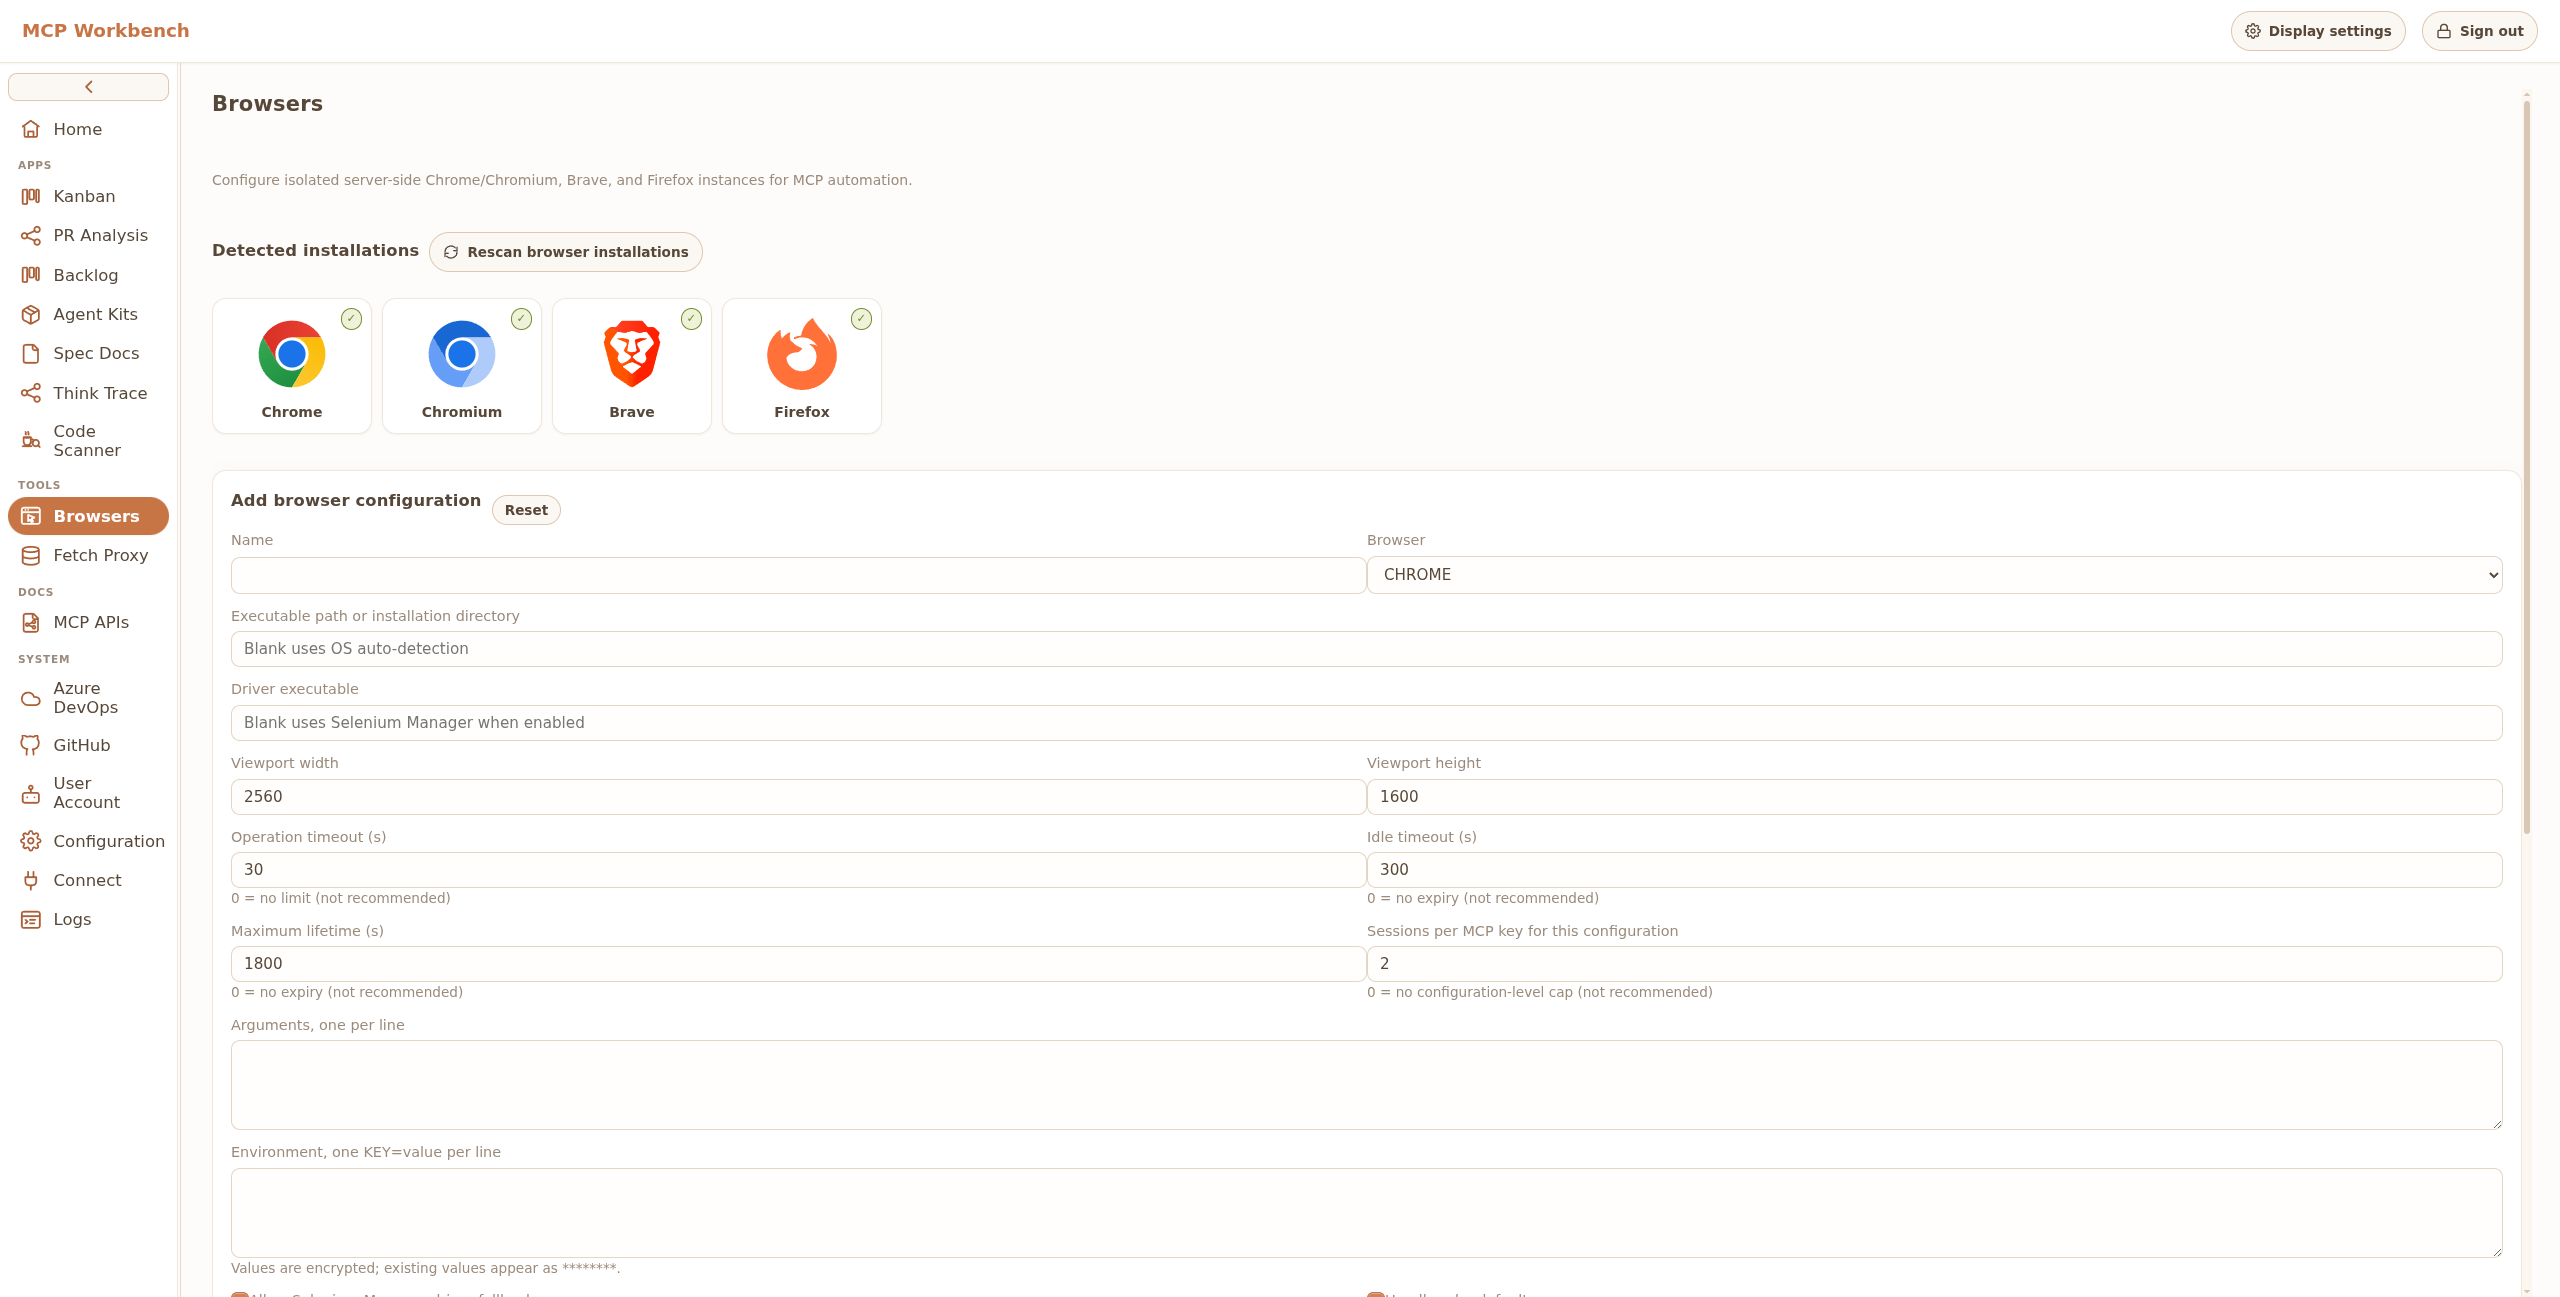
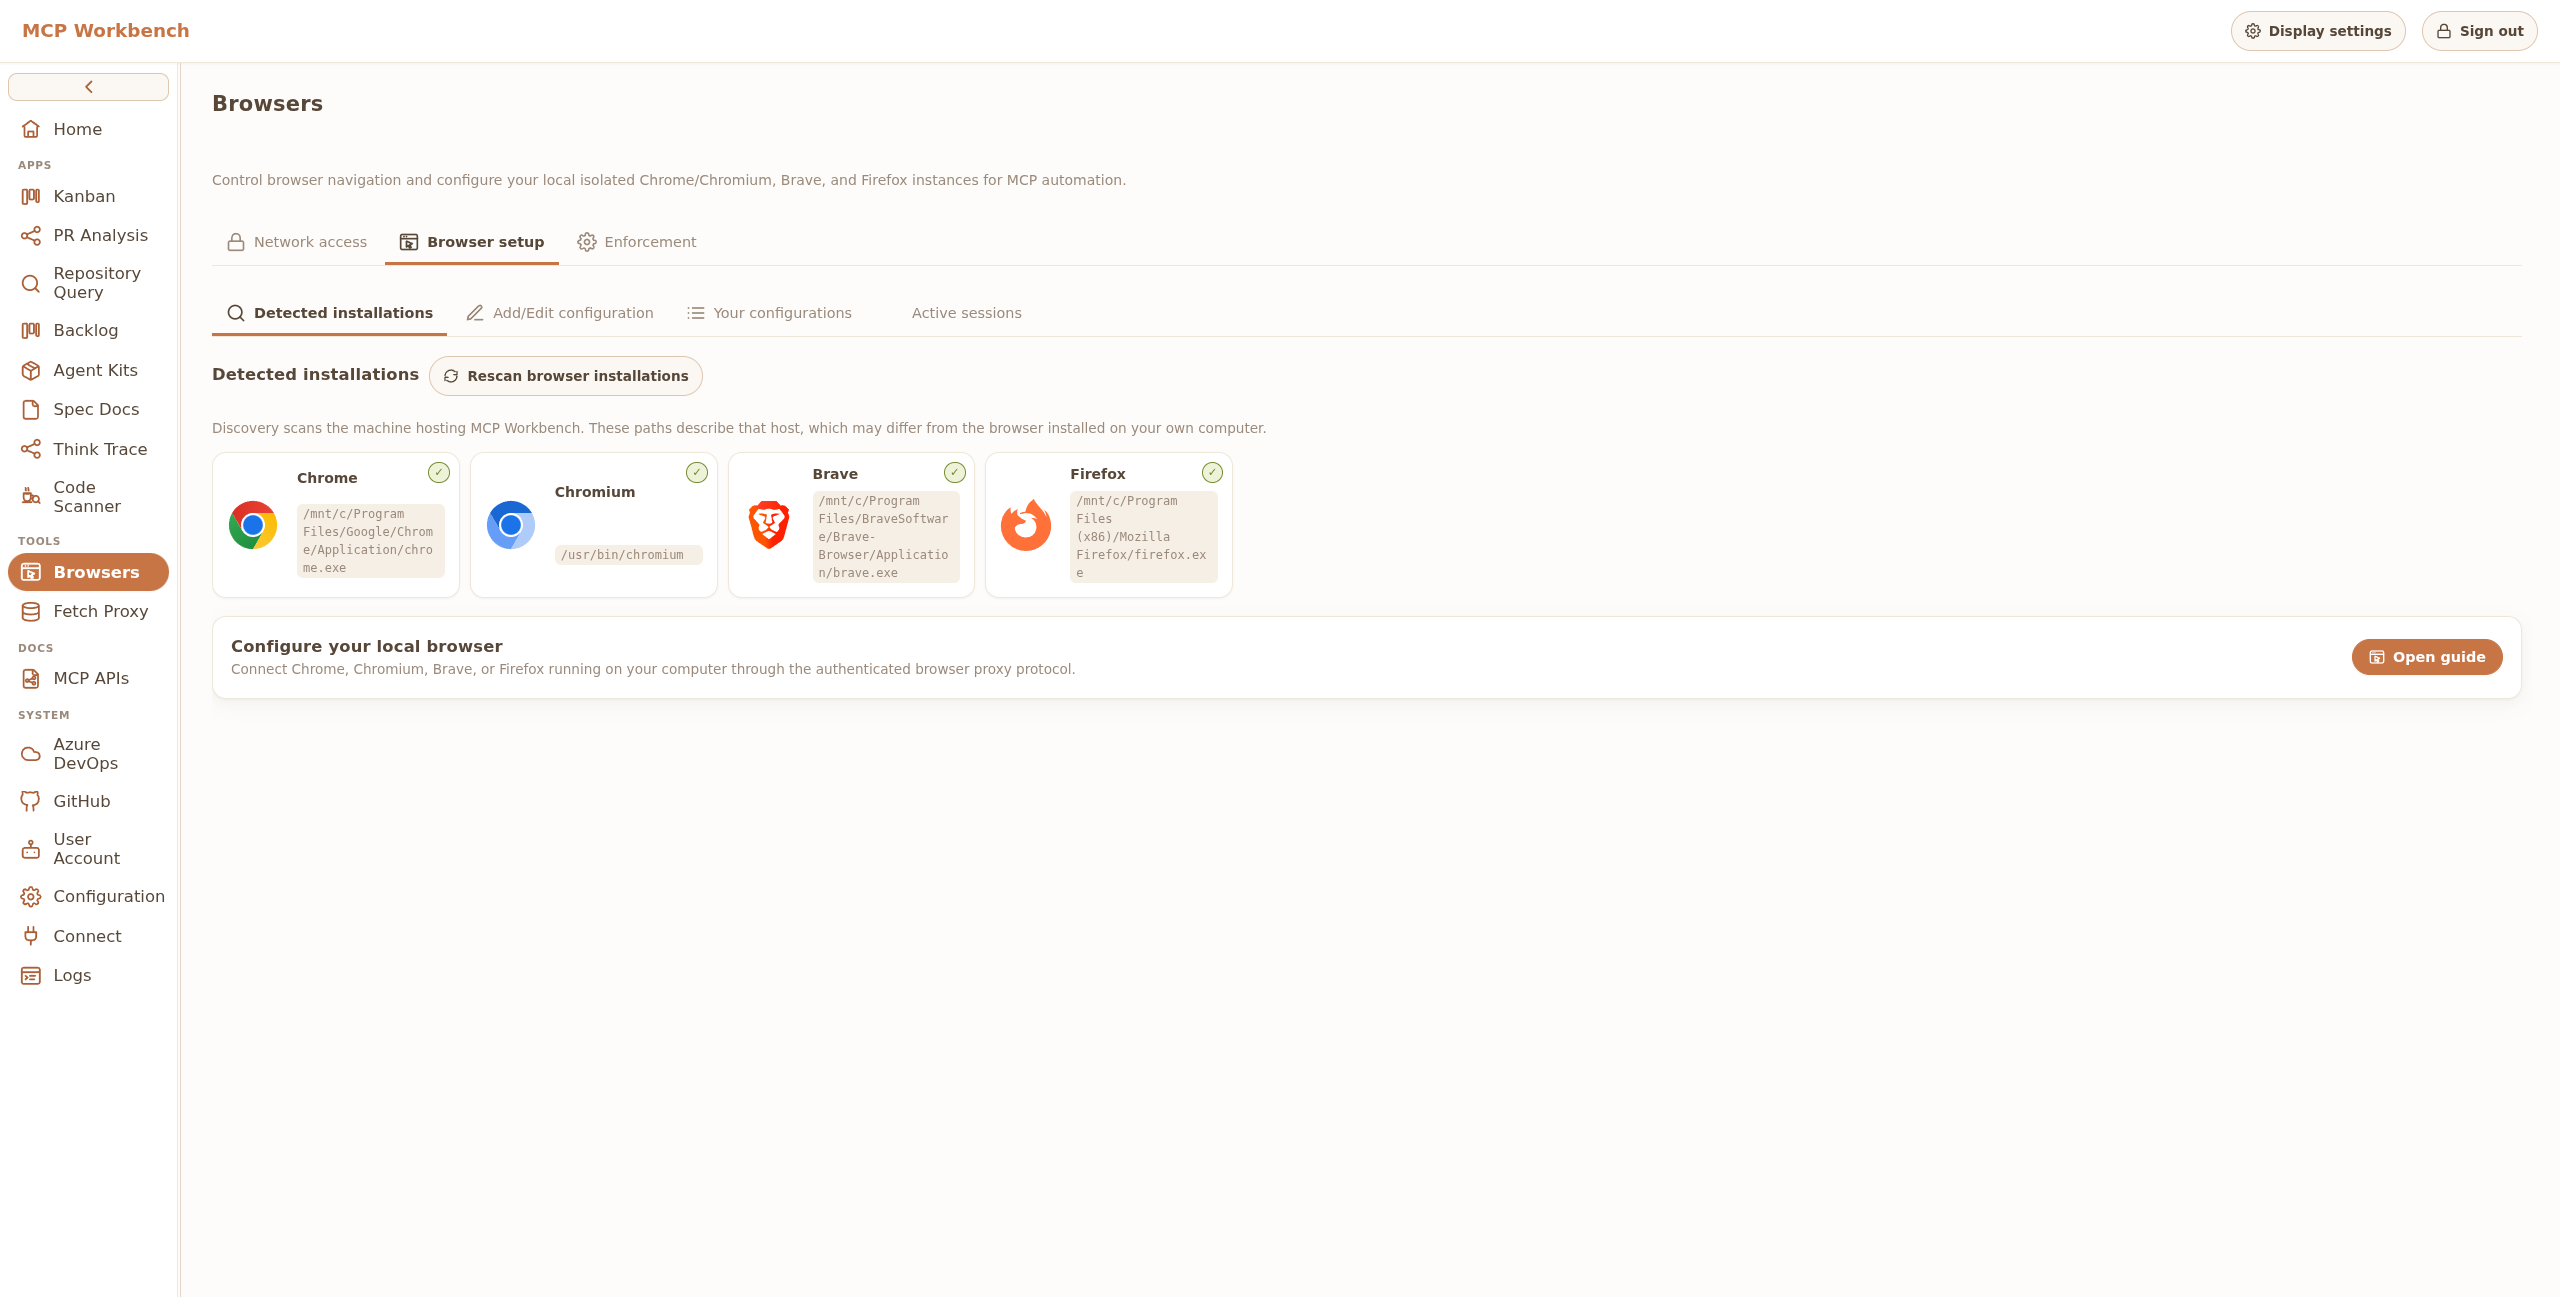
Publish MCP Workbench v3.0.0 files

diff --git a/README.md b/README.md
@@ -12,20 +12,15 @@ MCP key can be limited to the tools its agent actually needs.
 
 ## Why use it?
 
-- **One MCP endpoint, many workflows.** Connect an agent once, then use Kanban, PR analysis,
-  backlog proposals, code scanning, browser automation, Fetch Proxy, Think Trace, and more.
-- **Approval-first changes.** Prepare repository and work-item mutations locally, review them in the
-  portal, and push only the proposals you approve.
-- **Local-first persistence.** Boards, analyses, traces, policies, credentials, and audit records
-  remain in the configured application data directory.
-- **Scoped agent access.** Issue a separate MCP key per agent and restrict each key to an explicit
-  set of apps.
-- **Safe browser sessions.** Browsers start with fresh isolated profiles rather than your personal
-  browser profile, passwords, cookies, or extensions.
-- **Useful results at any size.** Fetch Proxy can retrieve an HTTP resource or delegate an MCP tool
-  call, retain the result temporarily, and return it in bounded parts.
-- **A portal for humans.** Inspect what agents created, understand code relationships, annotate live
-  browser sessions, and administer the service without editing configuration files.
+- **One governed toolset.** Give each agent one scoped MCP key for the workflows it needs.
+- **Approval-first changes.** Review proposed repository and work-item changes before they reach a
+  remote system.
+- **Release-aware repository research.** Find pull requests between tags or commits and retrieve Git
+  history with the pull requests associated to each commit.
+- **Local, inspectable work.** Boards, analyses, traces, policies, credentials, and audit records stay
+  in the configured application data directory.
+- **Isolated execution.** Browser tools use fresh profiles, while Fetch Proxy keeps large or delegated
+  results temporary and bounded.
 
 ## How it fits together
 
@@ -41,7 +36,7 @@ flowchart LR
     HELPER --> LOCAL_BROWSER["Isolated browser near the user"]
 ```
 
-Browser commands use the same API in both supported execution paths:
+Browser tools use the same operations in both supported execution paths:
 
 ```text
 AI → MCP Workbench → Browser
@@ -49,28 +44,56 @@ AI → MCP Workbench → proxy/helper → Browser
 ```
 
 The second path is useful when Workbench runs on another machine. The helper initiates an
-authenticated connection to Workbench and translates the existing browser API into local browser
-commands; it does not expose the user's normal browser profile.
+authenticated connection to Workbench and executes the browser tools near the user without exposing
+the user's normal browser profile.
+
+## MCP tool groups
+
+| Tools | How they work and what they are useful for |
+| --- | --- |
+| **Azure DevOps and GitHub** | Inspect repositories, branches, pull requests, comments, diffs, files, work items, and issues. `getAzurePullRequestSearchSupport` and `getGitHubPullRequestSearchSupport` describe provider filters; `searchAzurePullRequests` and `searchGitHubPullRequests` can bound a release by tags or commits, while `getAzureGitHistory` and `getGitHubGitHistory` return commits with associated pull requests. These tools are suited to release notes, change audits, and repository research. |
+| **Kanban** | Create and search persistent boards and cards, move work, add comments and links, and return portal links so an agent can hand a task back to a person. |
+| **PR Analysis** | Build local Azure DevOps or GitHub review records, organize findings and discussion, and publish only selected comments after review. |
+| **Backlog** | Record conversations and prepare versioned Azure DevOps or GitHub work-item, issue, test-plan, and pull-request proposals. Remote pushes remain explicit, scoped actions. |
+| **Agent Kits and Spec Docs** | Store reusable agent instructions and project documentation with folders, history, search, stable slugs, and portal links. |
+| **Think Trace** | Record typed reasoning nodes, edges, evidence, comments, and reports so an agent run can be searched, reviewed, and compared later. |
+| **Code Scanner** | Index local, Azure DevOps, or GitHub code; search symbols and files; follow calls and references; find entry points, service APIs, configuration, Data I/O, Maven structure, quality findings, and CVEs. |
+| **Browser Automation** | Start isolated direct or helper-backed browsers, navigate, inspect semantic snapshots, interact with elements, annotate pages, read console output, and capture screenshots. |
+| **Fetch Proxy** | Fetch policy-approved web content or delegate an allowed MCP tool, then poll, search, and read temporary results in bounded parts. |
+| **Tool catalogue** | `getMcpApiDocs` returns the currently exposed MCP tool descriptions and schemas for discovery without relying on a stale hard-coded list. |
 
 ## Product tour
 
 ### Plan work and review changes
 
-Kanban provides persistent boards, ordered columns, card assignment, due dates, search, and direct
-links agents can return to a user.
+Kanban tools keep planning work persistent and return direct links agents can hand back to a user.
 
 ![Kanban board populated with a release plan](docs/images/readme/kanban-board.png)
 
-PR Analysis turns an Azure DevOps or GitHub pull request into a review workspace. Findings are
-organized by severity, category, file, and line, with a controlled path for publishing selected
-comments.
+PR Analysis tools turn Azure DevOps or GitHub reviews into structured local findings with a
+controlled path for publishing selected comments.
 
 ![Pull request analysis with synthetic findings](docs/images/readme/pr-analysis.png)
 
+The release-aware repository tools first describe their supported filters, then search pull requests
+or walk commit history within an optional tag or commit range. Repository Query presents those MCP
+workflows for people, including commit-to-PR associations, linked Azure work item IDs, page grouping, pagination, and export.
+
+![Repository Query release-range search](docs/images/readme/repository-query.png)
+
+### Repeat browser and JVM measurements
+
+[Test Suite](docs/test-suite.md) groups reusable measurement profiles and saved runs in folders
+such as `App/sortB`. An agent can start `App#sortB`, interact through existing browser tools,
+then stop by run ID. Browser and JVM evidence share an explorable timeline, with repeated-run
+overlays and saved environment metadata. Stop leaves the application and browser open.
+
+![Test Suite combined browser and JVM timeline](docs/images/test-suite/runs-1920.png)
+
 ### Make agent reasoning inspectable
 
-Think Trace records a run as typed nodes and edges instead of hiding it in a chat transcript.
-Reports, comments, tools, evidence, decisions, and changes can be inspected together.
+Think Trace tools record a run as typed nodes and edges instead of hiding it in a chat transcript.
+Reports, comments, evidence, decisions, and changes remain inspectable together.
 
 ![Think Trace overview with graph and details](docs/images/readme/think-trace.png)
 
@@ -80,9 +103,9 @@ The expanded graph makes the full execution path easier to present or audit.
 
 ### Explore a codebase without pasting it into chat
 
-Code Scanner indexes local folders or authenticated Azure DevOps and GitHub branches. Java-aware
-scans add deterministic symbol, configuration, entry-point, reference, Data I/O, Maven dependency,
-and CVE analysis.
+Code Scanner tools index local folders or authenticated Azure DevOps and GitHub branches, then add
+deterministic Java symbol, configuration, entry-point, reference, Data I/O, Maven dependency, and CVE
+analysis.
 
 ![Code Scanner analysis overview](docs/images/readme/code-scanner.png)
 
@@ -98,47 +121,23 @@ view.
 
 ### Connect agents and controlled execution
 
-The Connect page provides a four-step tutorial with client-specific tabs for Claude Code, Codex,
-GitHub Copilot, and Grok, plus a searchable inventory of the tools enabled for the current key.
+The Connect page provides client-specific setup and a searchable inventory of the MCP tools enabled
+for the current key.
 
 ![Connect an agent tutorial](docs/images/readme/connect-an-agent.png)
 
-Browser Automation discovers installed Chromium, Chrome, Brave, and Firefox executables and creates
-reusable hardened configurations for direct or proxied sessions.
+Browser tools discover installed Chromium, Chrome, Brave, and Firefox executables and use reusable
+hardened configurations for direct or helper-backed sessions.
 
 ![Browser Automation configuration](docs/images/readme/browser-automation.png)
 
-Fetch Proxy applies global and per-key policy to outbound HTTP fetches and delegated tool results.
+Fetch Proxy tools apply global and per-key policy to outbound HTTP fetches and delegated tool results.
 
 ![Fetch Proxy policy and limits](docs/images/readme/fetch-proxy.png)
 
-## Apps
-
-### Workspace
-
-| App | What it provides |
-| --- | --- |
-| **Kanban** | Persistent boards, columns, cards, labels, assignment, due dates, search, movement, and portal links. |
-| **PR Analysis** | Local Azure DevOps and GitHub review cards, structured findings, file diffs, and selected-comment publishing. |
-| **Backlog** | Approval-first proposals for work-item and issue changes, test plans, and pull requests before remote mutation. |
-| **Agent Kits** | Reusable agent instructions and task-oriented kits that can be discovered through MCP. |
-| **Spec Docs** | Structured specifications and project documentation for human and agent collaboration. |
-| **Think Trace** | Typed execution graphs, evidence, decisions, comments, reports, comparisons, and shareable portal views. |
-| **Code Scanner** | Local or remote code indexes; Java symbols, hierarchy, entry points, configuration, Data I/O, Maven dependencies, and OSV CVEs. |
-
-### Integrations and administration
-
-| App | What it provides |
-| --- | --- |
-| **Azure DevOps** | Authenticated projects, repositories, pull requests, work items, trees, file content, and diffs. |
-| **GitHub** | Authenticated repositories, branches, pull requests, comments, issues, and approval-first write proposals. |
-| **Browsers** | Isolated Chromium, Chrome, Brave, or Firefox sessions with semantic snapshots, interaction, screenshots, and cooperative annotations. |
-| **Fetch Proxy** | Policy-controlled HTTP retrieval and delegated MCP calls with bounded, temporary result storage. |
-| **User Account** | Password management and the signed-in user's security controls. |
-| **Configuration** | Tabbed system, security, integration, database migration, and persistence settings. |
-| **MCP APIs** | Scoped MCP keys, allowed-tool selection, deny-by-default immediate remote-write permission, status, last use, regeneration, and revocation. |
-| **Connect** | Client-specific setup tutorial and available-tool discovery. |
-| **Logs** | Searchable operational and audit logs, including launcher identities. |
+The portal supplies human views for these tool groups plus credentials, per-key permissions, browser
+and Fetch Proxy policy, persistence, connectivity, and audit logs. It is an operator interface; agent
+automation uses the scoped MCP tools described above.
 
 ## Install
 
@@ -255,10 +254,11 @@ each boundary:
 
 - passwords and integration tokens are encrypted at rest using the configured application key;
 - MCP keys are stored as hashes, shown once, independently scoped, auditable, and revocable;
-- state-changing backlog and review workflows are approval-first; proposal-tool immediate writes require
-  the MCP key's general **Immediate remote writes** permission, except that an Azure project configuration
-  may additionally authorize only Backlog work-item writes within its project and selected
-  ancestor subtrees for explicitly assigned MCP keys;
+- state-changing backlog and review workflows are approval-first; an MCP key's broad **Immediate remote
+  writes** permission authorizes proposal pushes plus unscoped pull-request writes (comments and creation/update);
+- Azure project configurations can separately grant assigned MCP keys work-item force pushes within selected
+  ancestor subtrees, or Azure pull-request writes for exact target branches (or every branch in that project);
+  GitHub pull-request writes always require the broad **Immediate remote writes** permission;
 - Azure project configurations can publish enabled custom-field expectations to agents, normalized with a list of affected
   work-item types; field discovery runs only when requested in the portal, refreshes locked Azure metadata, and discovered
   fields can be disabled or deleted;
@@ -382,8 +382,10 @@ mcp-application         Spring Boot assembly
 mcp-windows / mcp-mac   desktop launchers
 ```
 
-Operational and publishing details live under [`docs/`](docs/). Browser implementers should start
-with the protocol document linked above.
+Operational and publishing details live under [`docs/`](docs/). Humans can use **Repository Query**
+in the portal; release automation clients should connect to `/mcp` and follow the
+[release-aware pull request and Git history tool guide](docs/git-release-query-api.md). Browser
+implementers should start with the protocol document linked above.
 
 ## License
 
